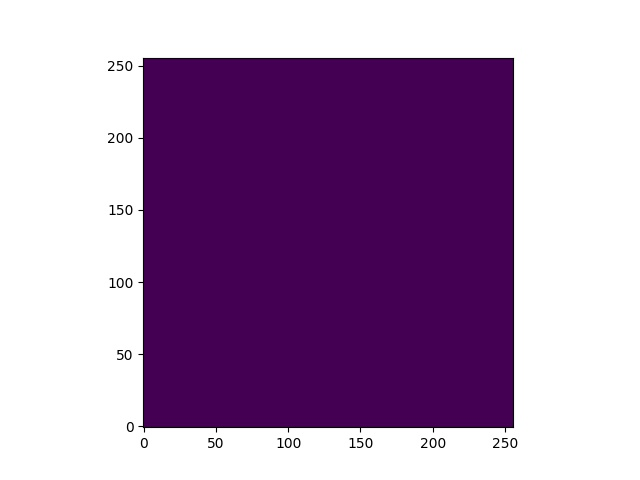
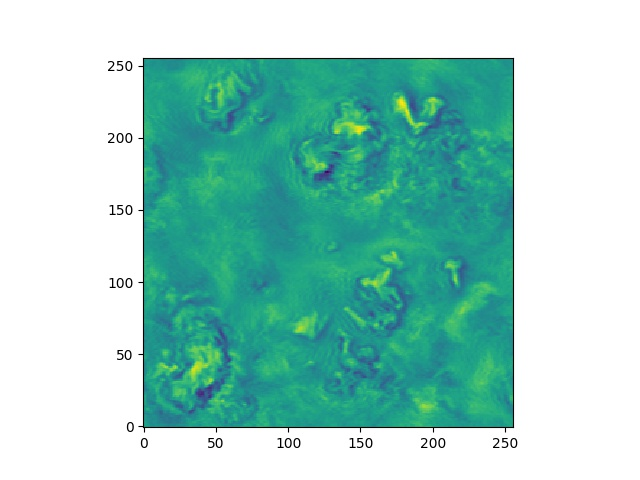
trying to get 3D view

diff --git a/web/nephelae/views.py b/web/nephelae/views.py
@@ -28,15 +28,17 @@ def cross_section(request):
         hcs.altitude_index = altitude
 
         #base64 strings representing cross section images
-        #cloud_string = hcs.print_clouds()
-        #thermals_string = hcs.print_thermals()
+        cloud_string = hcs.print_clouds()
+        thermals_string = hcs.print_thermals()
+        #hcs.print_clouds_img()
+        #hcs.print_thermals_img()
 
         #int64 have to be casted to int to be JSON serializable
         response = JsonResponse({
             'date': int(hcs.get_date()),
             'altitude': int(hcs.get_altitude()),
-            'clouds': "cloud_string",
-            'thermals': "thermals_string",
+            'clouds': cloud_string,
+            'thermals': thermals_string,
         })
         
         return response

diff --git a/web/nephelae/models/horizontal_cross_section.py b/web/nephelae/models/horizontal_cross_section.py
@@ -11,7 +11,7 @@ var_lwc = 'RCT'          # Liquid water content in KG/KG ?
 
 
 class HorizontalCrossSection(models.Model):
-    
+
     # Load file into dataset
     dataset = MFDataset('../data/data.nc')
     altitude_index = models.IntegerField()
@@ -87,7 +87,7 @@ class HorizontalCrossSection(models.Model):
     def get_date(self):
         return self.dataset.variables[var_time][self.time_index]
 
-    # Get altitude !in meters! from altitude_index !CHECK THIS METHOD CORRECTNESS!
+    # Get altitude !in meters! from altitude_index !CHECK THIS METHOD'S CORRECTNESS!
     def get_altitude(self):
         return 1000*self.dataset.variables[var_altitude][self.altitude_index, 0, 0]
 

diff --git a/test_3D.py b/test_3D.py
@@ -1,0 +1,19 @@
+import pptk
+import numpy as np
+from netCDF4 import MFDataset
+
+var_time = 'time'        # Time in seconds since 1995-1-1 00:00:00
+var_lwc = 'RCT'          # Liquid water content in KG/KG ?
+time_index = 0
+
+if __name__ == "__main__":
+        # Load file into dataset
+    dataset = MFDataset('./data/data.nc')
+
+    #print(dataset.variables[var_lwc])
+    for i in range(100):
+        lwc = np.where(dataset.variables[var_lwc][i,:,:,:] > 0)
+        #np.swapaxes(lwc,2,0)
+
+        v = pptk.viewer(lwc[2][:])
+        #v.set(point_size=0.005)

diff --git a/web/nephelae/models/cloud_view.py b/web/nephelae/models/cloud_view.py
@@ -1,0 +1,17 @@
+from django.db import models
+import pptk
+from netCDF4 import MFDataset
+
+var_time = 'time'        # Time in seconds since 1995-1-1 00:00:00
+var_lwc = 'RCT'          # Liquid water content in KG/KG ?
+
+
+class CloudView(models.Model):
+    
+    key = models.IntegerField()
+
+    #dataset = MFDataset('../data/data.nc')
+
+    #xyz = dataset.variables[var_lwc][0,0,:,:]
+    #v = pptk.viewer(xyz)
+    #v.set(point_size=0.005)

diff --git a/web/nephelae/migrations/0003_auto_20190619_2121.py b/web/nephelae/migrations/0003_auto_20190619_2121.py
@@ -1,0 +1,17 @@
+# Generated by Django 2.2.2 on 2019-06-19 21:21
+
+from django.db import migrations
+
+
+class Migration(migrations.Migration):
+
+    dependencies = [
+        ('nephelae', '0002_auto_20190619_1106'),
+    ]
+
+    operations = [
+        migrations.AlterModelTable(
+            name='horizontalcrosssection',
+            table='HorizontalCrossSection',
+        ),
+    ]

diff --git a/web/IHM/settings.py b/web/IHM/settings.py
@@ -27,7 +27,7 @@ SECRET_KEY = ')x9a2t+++@()pwdll$#@l292o17exo79t&3^m$&%e@zewg5w(('
 # SECURITY WARNING: don't run with debug turned on in production!
 DEBUG = True
 
-ALLOWED_HOSTS = []
+ALLOWED_HOSTS = ['*']
 
 # Application definition
 

diff --git a/web/nephelae/models/__init__.py b/web/nephelae/models/__init__.py
@@ -1,0 +1,2 @@
+from .horizontal_cross_section import HorizontalCrossSection
+from .cloud_view import CloudView
